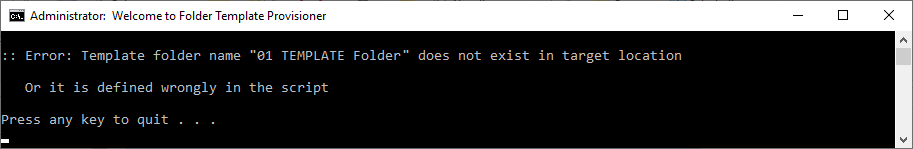
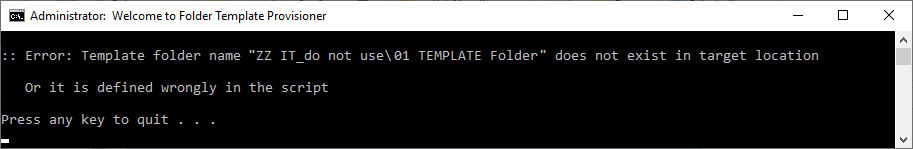
Replace screenshots

Changed region(s): [[0.276, 0.3221, 0.92, 0.4295]]

diff --git a/README.md b/README.md
@@ -51,7 +51,7 @@ The script has been designed with care to improve usability and avoid accidental
 │ FolderTemplateProvisioner.bat // main script
 │ _elevate.vbs // UAC elevation script (optional)
 │
-├───ZZ IT_do not Use\01 Template Folder // Template folder (this can be a sub-folder)
+├───ZZ IT_do not use\01 Template Folder // Template folder (this can be a sub-folder)
 │                                       // with folders/files of set permissions to copy
 │
 ├───A // Last names beginning with an "A"
@@ -72,7 +72,7 @@ The script has been designed with care to improve usability and avoid accidental
 
 ## Steps by Step - How to Set up the Scripts
 
-1. Edit `templateName` variable at the upper area of `FolderTemplateProvisioner.bat` script by setting it to the folder acting as the template, e.g. `ZZ IT_do not Use\01 Template Folder`, with required files and permissions prepared inside
+1. Edit `templateName` variable at the upper area of `FolderTemplateProvisioner.bat` script by setting it to the folder acting as the template, e.g. `ZZ IT_do not use\01 Template Folder`, with required files and permissions prepared inside
 2. Place both scripts (`FolderTemplateProvisioner.bat` and optionally `_elevate.vbs`) inside a folder containing `A,B,C...Z` sub-folders, sitting beside them. The `A-Z` folders contains the template folder and provisioned folders named '`LASTNAME, Firstname`' copied by the script from the template folder
 
 ## Step by Step - How to Provision a New Folder
